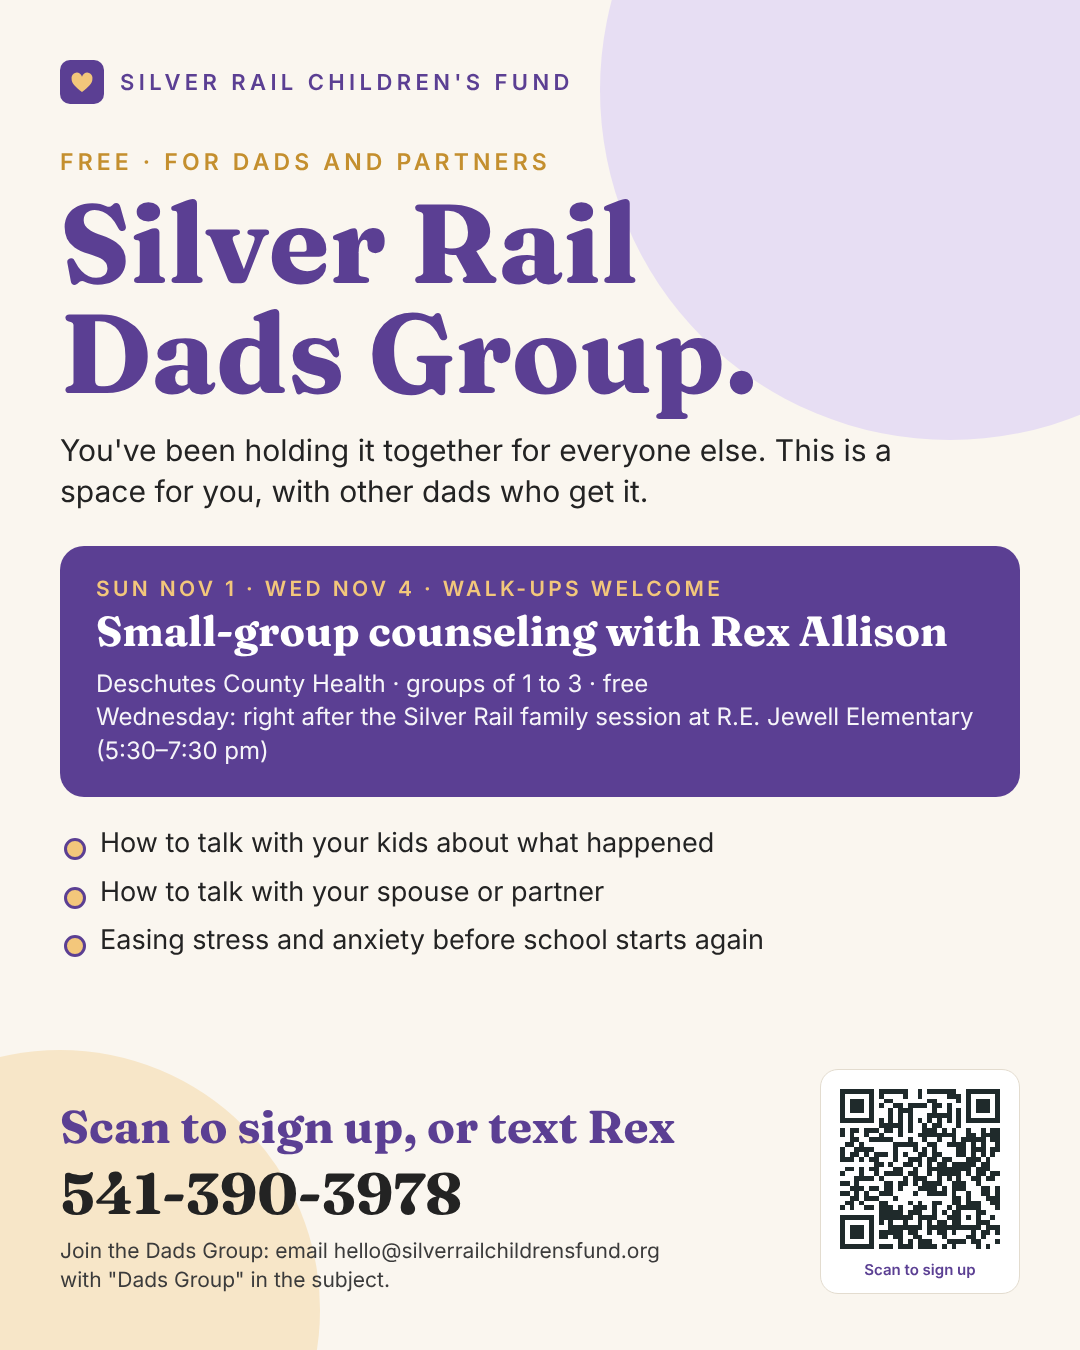
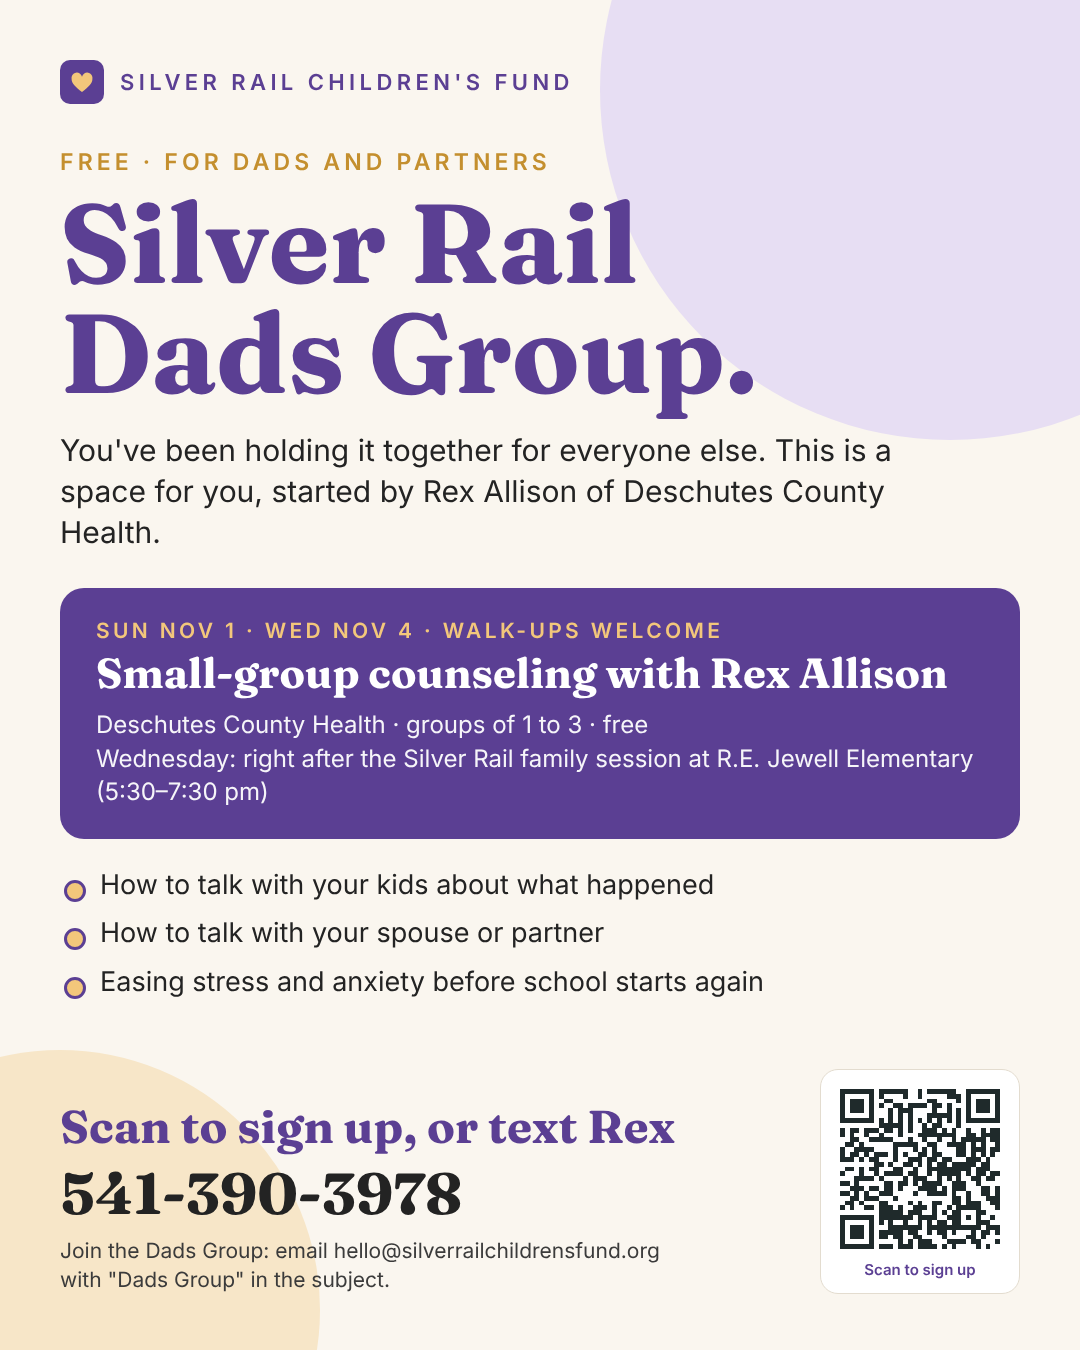
Dads Group: credit Rex Allison as founder
Claude-Session: https://claude.ai/code/session_019jt2LXU3CZrv6nyaaDTgQ8

Changed region(s): [[0.0306, 0.3733, 0.9472, 0.7467], [0.2444, 0.3422, 0.825, 0.3733]]

diff --git a/dads-group.html b/dads-group.html
@@ -114,7 +114,7 @@ footer.sf .sf-legal a{color:var(--ink-2)}
 <div class="bar"><a href="https://www.gofundme.com/f/silver-rail-kids-fun-fund-nve6k" target="_blank" rel="noopener">Give to the Kids Fun Fund &rarr;</a><span class="barx"> &nbsp;&middot;&nbsp; 100% to the kids</span></div>
 
 <main>
-<div class="hero"><div class="wrap"><div class="eyebrow">For dads and partners</div><h1>Silver Rail Dads Group.</h1><p class="lede">A free, no-pressure space for dads and partners of Silver Rail kids. Talk with other dads who get it, and with a counselor who can help.</p></div></div>
+<div class="hero"><div class="wrap"><div class="eyebrow">For dads and partners</div><h1>Silver Rail Dads Group.</h1><p class="lede">A free, no-pressure space for dads and partners of Silver Rail kids, started by Rex Allison of Deschutes County Health. The Silver Rail Children's Fund is proud to help spread the word.</p></div></div>
 <section class="post"><div class="wrap">
 
 <div class="box" id="sessions">
